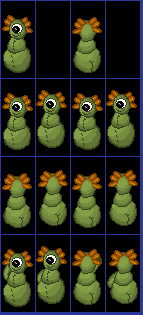
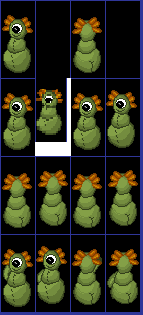
hacking at friend creep

Changed region(s): [[0.2238, 0.2286, 0.5035, 0.5143]]

diff --git a/js/entities/entities.js b/js/entities/entities.js
@@ -246,7 +246,7 @@ game.EnemyBaseEntity = me.Entity.extend({
 		//makes the tower collidable
 		this.body.onCollision = this.onCollision.bind(this);
 		//checks what player is running into
-		this.type = "EnemyBaseEntity";
+		this.type = "EnemyBase";
 		//adds the defualt animatin for the game
 		this.renderable.addAnimation("idle", [0]);
 		//adds the animation for when the tower is broken
@@ -360,6 +360,92 @@ game.EnemyCreep = me.Entity.extend({
 	
 });
 
+
+////////////////////////////////////////////////////////////////////////////////////////////////////////////////////////////
+
+
+//friend creep hack one
+game.FriendCreep = me.Entity.extend({
+	init: function(x, y, settings){
+			//reaches the constructor function for enitity
+			this._super(me.Entity, 'init', [x, y, {
+				//settings. shows the creep
+				image: "creep2",
+				//sets aside a width of 64 pixels for the sprite
+				width: 32,
+				//sets aside a height of 64 pixels for the sprite
+				height: 64,
+				//gives the sprite a width of 64. 
+				spritewidth : "32",
+				//gives the sprite a width of 64
+				spriteheight: "64",
+				//gives creep a form
+				getShape: function(){
+					return(new me.Rect(0, 0, 32, 64)).toPolygon();
+				}
+			}]);
+			//sets health to ten
+			this.health = 10;
+			//makes the creep's satus continuosly update
+			this.alwaysUpdate = true;
+			//says the creep is not attacking
+			this.attacking = false;
+			//records last time creep attacked anything
+			this.lastAttacking = new Date().getTime();
+			//records last time creep hit anything
+			this.lastHit = new Date().getTime();
+			//timer for attacking
+			this.now = new Date().getTime();
+			//sets the creep's horizantal and vertical speed
+			this.body.setVelocity(3, 20);
+			//sets the sprite's type
+			this.type = "FriendCreep";
+			//creates the walking animation
+			this.renderable.addAnimation("walk", [4, 5, 6, 7], 80);
+			//applies the walking animation
+			this.renderable.setCurrentAnimation("walk");
+		},
+
+
+		//delta is the change in time that's happening
+		update: function(delta){
+			//updates attack
+			this.now = new Date().getTime();
+			//makes the creep move
+			this.body.vel.x += this.body.accel.x *  me.timer.tick;
+			//checks for collisions with player
+			me.collision.check(this, true, this.collideHandler.bind(this), true);
+			//basic update functions
+			this.body.update(delta);
+			this._super(me.Entity, "update", [delta]);
+			return true;
+		},
+		//function for creeps' collisions
+		collideHandler: function(response){
+			//runs if creep collides with player base
+			if (response.b.type === 'EnemyBase') {
+				//makes the creep attack
+				this.attacking = true;
+				//timer that says when last attacked
+				//this.lastAttacking = this.now;
+				//prevents the creep from walking through the tower
+				this.body.vel.x = 0;
+				//pushes the creep back a little to maintain its position
+				this.pos.x = this.pos.x + 1;
+				//makes the creep hit the tower every second
+				if ((this.now - this.lastHit >= 1000)) {
+					//updates the lastHit timer
+					this.lastHit = this.now;
+					//runs the losehealth function, with 1 point damage
+					response.b.loseHealth(1);
+				}
+			}
+		}
+	
+});
+
+
+///////////////////////////////////////////////////////////////////////////////////////////////////////////////////////////
 //class that runs all the timers and occurences that aren't inside any of the other entities
 game.GameManager = Object.extend({
 	//constructor function
@@ -383,6 +469,14 @@ game.GameManager = Object.extend({
 			var creepe = me.pool.pull("EnemyCreep", 1000, 0, {});
 			//adds the creeps to the worls
 			me.game.world.addChild(creepe, 5);
+		}
+		if(Math.round(this.now/1000)%10 === 0 && (this.now - this.lastCreep >= 1000)){
+			//updates timer
+			this.lastCreep = this.now;
+			//creates and inserts creep into worls
+			var creepf = me.pool.pull("FriendCreep", 1000, 0, {});
+			//adds the creeps to the worls
+			me.game.world.addChild(creepf, 5);
 		}
 		//updates
 		return true;

diff --git a/js/resources.js b/js/resources.js
@@ -12,8 +12,10 @@ game.resources = [
 	{name: "player", type:"image", src: "data/img/orcSpear.png"},
 	//loads the tower entity from the data folder, allowing it to display it on the map
 	{name: "tower", type:"image", src: "data/img/tower_round.svg.png"},
-	//loads the creep entity from the data folder, allowing it to display it on the map
+	//loads the brainmonster entity from the data folder, allowing it to display it on the map
 	{name: "creep1", type:"image", src: "data/img/brainmonster.png"},
+	//loads the oneeye entity from the data folder, allowing it to display it on the map
+	{name: "creep2", type:"image", src: "data/img/elf.png"},
 
 	/* Atlases 
 	 * @example

diff --git a/js/game.js b/js/game.js
@@ -48,6 +48,8 @@ var game = {
 		me.pool.register("EnemyBase", game.EnemyBaseEntity);
 		//adds enemy creep to pool
 		me.pool.register("EnemyCreep", game.EnemyCreep, true);
+		//adds friend creep to pool
+		me.pool.register("FriendCreep", game.FriendCreep, true);
 		//registers oblject
 		me.pool.register("GameManager", game.GameManager);
 
